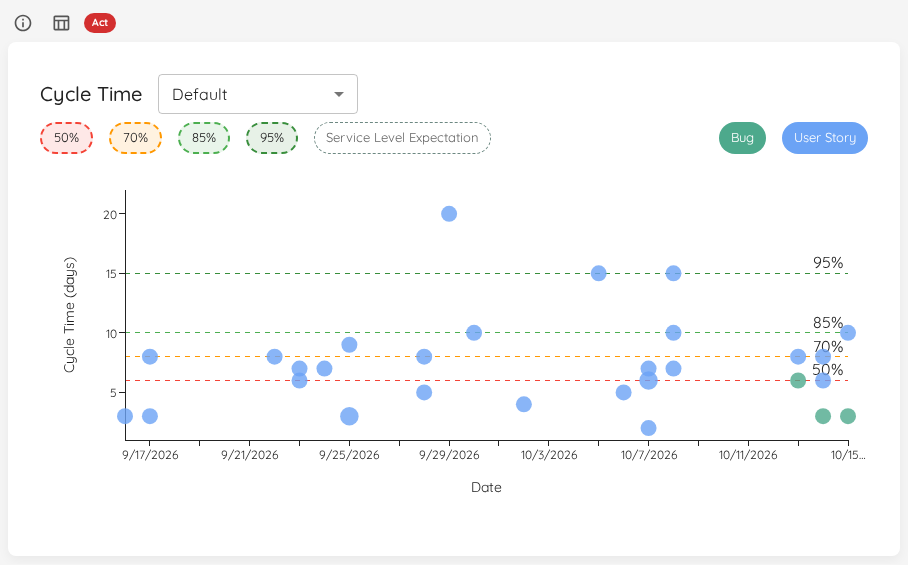
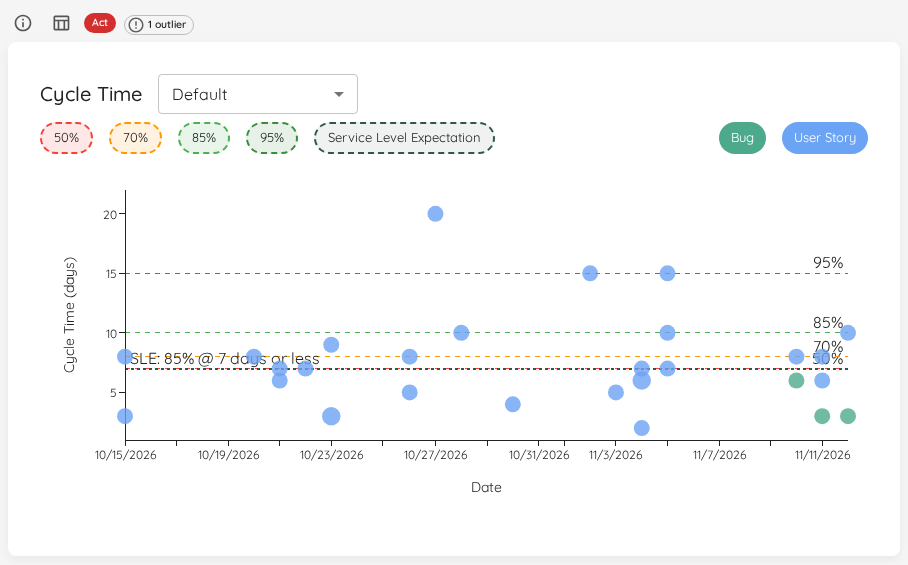
docs(metrics): finalize story-6502-hide-outliers
The Cycle Time docs gain an Outliers section and say the SLE line is now
drawn by default. ADR-282 moves out of the feature workspace as accepted,
the ADR-270 glossary gains the Outlier term, ARCHITECTURE.md and the brief
name the frontend chart rule, and jobs.yaml records the job it serves. The
two scatterplot screenshots are regenerated and now show the outlier chip.
The evolution record holds the finalize checklist.

Claude-Session: https://claude.ai/code/session_01ToezcRny6Bw5snRwWsvYx2

diff --git a/docs/product/architecture/adr-282-outlier-is-a-per-chart-median-multiple.md b/docs/product/architecture/adr-282-outlier-is-a-per-chart-median-multiple.md
@@ -1,12 +1,11 @@
-# ADR-282 (draft): An outlier is a value above a fixed multiple of the median, computed in the frontend, per chart
+# ADR-282: An outlier is a value above a fixed multiple of the median, computed in the frontend, per chart
 
-Draft written in the DESIGN wave of Story 6502, revised after the first review round. It lives in the feature
-folder; moving it to `docs/product/architecture/` and adding the ADR-270 glossary row and the `ARCHITECTURE.md`
-section 4 line is a DELIVER step (the DESIGN run was not allowed to edit shared docs).
+**Feature**: `docs/feature/story-6502-hide-outliers/`
 
 ## Status
+**Date**: 2026-11-14
 
-Proposed (maintainer reviews on return from AFK).
+Accepted (decided and shipped 2026-11-14).
 
 ## Context
 
@@ -31,7 +30,7 @@ in `layerBoundaries.enforcement.test.ts` (`utils` imports no services, hooks or 
    `OUTLIER_MEDIAN_MULTIPLE = 5`, a function that takes a list and a value accessor and returns the median, the cut
    (N x median), the outliers (largest first) and the typical items, and a pure `axisTop` function. It imports only
    the sibling `chartAxisUtils`. A chart passes its own accessor; nothing in the module knows a Work Item.
-2. **"The median" is Lighthouse's own 50th percentile** (AFK-10), computed in the frontend by `fiftiethPercentile`
+2. **"The median" is Lighthouse's own 50th percentile**, computed in the frontend by `fiftiethPercentile`
    with exactly the backend's convention (`PercentileCalculator.cs`: sort ascending, index = `floor(p/100 x N) - 1`,
    clamped). It is therefore always one of the items' values and always the number behind the chart's "50%" line, so
    the popover and the line cannot disagree. This is the one rule for "median" in the product; there is no second
@@ -44,14 +43,14 @@ in `layerBoundaries.enforcement.test.ts` (`utils` imports no services, hooks or 
    axis top is `axisTop`: with outliers, `min(1.1 x max(typical values and the lines at or below the cut), cut)`;
    without outliers, exactly today's axis. So "not drawn" is exactly "above the axis". Stated properties: every
    typical value and every drawn line is at or below the top, every outlier is above it, and the top never exceeds
-   the cut. The x-axis keeps its domain from all items (AFK-13).
+   the cut. The x-axis keeps its domain from all items.
 5. Lines (percentiles, SLE) above the axis are drawn as labelled edge markers in a reserved top margin, by a small
    custom SVG layer built on `useDrawingArea` (already used in this repository at the installed range); they are not
    passed to `ChartsReferenceLine`. The marker group is `aria-hidden`; the popover names the same lines once.
 6. The chip is a separate component (not a mode of `LegendChip`); the list behind it reuses `WorkItemsDialog`.
-   The chip is disabled, and an open popover closes, whenever the widget status leaves "ready" (AFK-11). The page gives
+   The chip is disabled, and an open popover closes, whenever the widget status leaves "ready". The page gives
    the chart a plain boolean, `frameIsReady`, taken from `frameStateOf` for the `cycleScatter` key and passed through
-   the `buildWidgetNodes` context (AFK-16); it is not called `isCurrent`, which names an unrelated local in the same
+   the `buildWidgetNodes` context; it is not called `isCurrent`, which names an unrelated local in the same
    file. The `WidgetStatusReporterContext` channel was considered and rejected: it reports from a chart up to its
    frame, and this need runs from the frame down to the chart.
 7. The statistics, the SLE share, RAG, tiles and View Data are not given the outlier partition. Only the chart's own
@@ -59,7 +58,7 @@ in `layerBoundaries.enforcement.test.ts` (`utils` imports no services, hooks or 
    that runs the same reduction on both sides cannot fail): a mounted chart (MUI mocked) is given the full population
    and must hand the percentile, SLE and View Data inputs on unchanged, and the lines it draws plus the markers it
    shows must equal the lines it received.
-8. **Slices.** The cap at the cut and the edge markers ship in one slice (AFK-6). Shipping the cap without markers
+8. **Slices.** The cap at the cut and the edge markers ship in one slice. Shipping the cap without markers
    hides the 95% and SLE lines silently; shipping markers without the cap leaves "not drawn" outliers in plain
    sight. Neither half is honest alone.
 9. **Named percentiles** are stored with the definition id **and** the fetch callback's identity. A keyed TanStack
@@ -68,10 +67,10 @@ in `layerBoundaries.enforcement.test.ts` (`utils` imports no services, hooks or 
    a deviation from the project's keyed-query norm, accepted because scoped percentiles already live in component
    state elsewhere on the page and moving the fetch is outside this Story.
 
-## Spike and fallback
+## Edge markers: how they were checked, and the fallback
 
-MUI X behaviour for out-of-domain values and for a reserved top margin is unverified (the DESIGN worktree has no
-`node_modules`). DELIVER step 0 is a browser spike with these criteria, at 1280 px and 375 px, light and dark:
+How MUI X treats out-of-domain values and a reserved top margin was not known when this was decided, so the markers were checked
+in a browser, at 1280 px and 375 px, light and dark, against these criteria:
 (1) a marker `<text>` above the drawing area is fully inside the SVG; (2) the plot height does not change with the
 number of marker rows apart from the reserved margin, and no dot or line moves when a percentile chip is ticked; (3)
 no marker box intersects the plot or the legend row; (4) the longest label stays inside the SVG at 375 px or is
@@ -84,7 +83,7 @@ changes; the pure modules, the cap and their tests stay. Keeping the axis open f
 - **Backend flag on the DTO** (an `isOutlier` per item or a cut in the metrics response). Rejected: the maintainer
   wants it per chart on that chart's value; it would change API contracts and force a Lighthouse-Clients bump for a
   render-time concern; the frontend already holds the numbers.
-- **A textbook median in the frontend.** Rejected (AFK-10): two different "medians" on one screen, the chart's "50%"
+- **A textbook median in the frontend.** Rejected: two different "medians" on one screen, the chart's "50%"
   line and the popover's, would confuse every reader and need an explanatory sentence.
 - **Changing the backend percentile convention.** Rejected: it moves every percentile in the product.
 - **A `useOutliers` React hook as the home of the rule.** Rejected: the rule has no state or effect; a hook would
@@ -94,17 +93,17 @@ changes; the pure modules, the cap and their tests stay. Keeping the axis open f
 - **Clip the points instead of filtering them.** Rejected: MUI X scatter markers are not clipped by the axis, and
   each marker is also a focusable button and a tooltip target; an off-screen marker would be reachable by keyboard.
 - **Pass out-of-domain lines to `ChartsReferenceLine`.** Rejected: drawn above the plot, unclipped, over the legend.
-  To be proven in the DELIVER spike.
-- **Keep the axis open for every line** (the DISCUSS slice-01 rule). Rejected as the permanent rule: for a team
+  Checked in the browser before the markers shipped.
+- **Keep the axis open for every line** (the first plan). Rejected as the permanent rule: for a team
   whose 95% line or SLE lies above the cut, keeping the axis open for it undoes the point of the story for exactly
   that team. Such a line is rare on real-looking data (computed on Team Zenith, the 95% line is 15 days against a
   50% line of 6, 2.5 times, well under the cut of 30), so the markers are an honesty guard more than the usual look;
   an illustrative right-skewed lognormal (95% line near 5.2 times the median, not a measurement) is where they would
   show.
-- **`WidgetStatusReporterContext` as the source of the chip's "ready" flag.** Rejected (AFK-16): it carries status
+- **`WidgetStatusReporterContext` as the source of the chip's "ready" flag.** Rejected: it carries status
   from a chart to its frame, the opposite direction; a prop from `frameStateOf` is the smaller seam.
-- **Two slices (cap first, markers later).** Rejected (AFK-6), see decision 8.
-- **2 x P95 (DIVERGE) or Tukey fences.** Superseded by the maintainer's decision.
+- **Two slices (cap first, markers later).** Rejected, see decision 8.
+- **2 x P95 or Tukey fences.** Superseded by the maintainer's decision.
 
 ## Consequences
 
@@ -117,9 +116,9 @@ changes; the pure modules, the cap and their tests stay. Keeping the axis open f
 - Risk, with its probe: the spike above (manual, on a throwaway fixture, because the demo has no line above the cut
   and so shows no marker) and RTL and unit tests of the marker specs on a fixture; no E2E geometry check is kept.
   Demo data carries one outlier on Team Zenith (`TZ-301`, no Parent) so the chip is visible; its accepted effect on Zenith's
-  statistics is listed in the feature delta.
-- Glossary: "Outlier" enters the Flow metrics section of ADR-270 (row text in `feature-delta.md`, DISCUSS context
-  map). "Pace outlier" (Work Item Aging) and a Process Behaviour Chart point beyond its limits remain different
+  statistics is listed in the feature workspace.
+- Glossary: "Outlier" enters the Flow metrics section of ADR-270 in the same feature.
+  "Pace outlier" (Work Item Aging) and a Process Behaviour Chart point beyond its limits remain different
   things; every use is qualified.
 
 ## Enforcement
@@ -127,8 +126,8 @@ changes; the pure modules, the cap and their tests stay. Keeping the axis open f
 `utils/charts/outliers.ts` imports only the pure `chartAxisUtils`, so the existing fallow layer check already keeps
 it free of services, hooks and pages. A unit test asserts that the help sentence and the chip copy contain the value
 of `OUTLIER_MEDIAN_MULTIPLE`, so the constant cannot drift from the words. A table test pins `fiftiethPercentile` to
-the backend convention. Property tests (fast-check, a frontend dev dependency per AFK-7) cover the partition, the
-`axisTop` bounds, and the half-up rounding of the factor from 10 up (AFK-17). The wiring-point test above covers the
+the backend convention. Property tests (fast-check, a frontend dev dependency) cover the partition, the
+`axisTop` bounds, and the half-up rounding of the factor from 10 up. The wiring-point test above covers the
 statistics, and a second chart test pins the chart's 50% line to `fiftiethPercentile` of the same population, for the
 default and for a named Cycle Time, so the popover's median and the line cannot drift apart. Mutation testing (Stryker, 80%) covers the boundary (`>` against
 `>=` at the cut) through a test at exactly N x median.

diff --git a/ARCHITECTURE.md b/ARCHITECTURE.md
@@ -344,6 +344,7 @@ Hop 1 is the whole point: it happens at top level, against **whatever provider t
 - **The frontend layers import in one direction only, and a frozen list keeps today's exceptions from growing.** Five rules hold: components never import pages; hooks never import pages or components; services never import hooks; models never import pages; utils never import services. Each rule exists because a lower layer that reaches back up makes the two depend on each other and turns shared code into something only one screen can safely change. Pages and context are unconstrained, and so is the composition root (`App.tsx` and `main.tsx`), which sits outside every layer. Fallow, a dependency-graph checker pinned as a dev dependency, checks the rules from `Lighthouse.Frontend/.fallowrc.json`, which names the source folders as layers and says which layers each constrained layer may import. The 21 places where a layer already reaches across a rule are written down as named pairs of files, importing file then imported file, in the enforcement test `Lighthouse.Frontend/src/layerBoundaries.enforcement.test.ts`. The check also catches a lazy (dynamic) import and a component that nothing imports yet. A new reach fails the test naming both files, and the fix, for any of the five rules, is to move the shared piece into a layer both files may import, or to invert the dependency, never to add the pair to the list. A reach that has been fixed fails the test too until its pair is deleted, so the list only ever shrinks. Test files are not checked, and a check that cannot run (a missing config, say) fails the test with what Fallow printed rather than passing with no leaks.
 - **No production frontend file grows past 1000 lines, and a list that only shrinks names any that do.** A file that wide mixes responsibilities, and each later change to one of them risks the others. `Lighthouse.Frontend/src/fileSize.enforcement.test.ts` counts the lines of every production file and fails naming any over the limit that is not listed in `src/fileSize.offenders.ts`; a listed file that has come under the limit fails it too until its entry is deleted. The list is empty today. A wide file is split by responsibility next to where it lives, with no barrel: pure rules into a function module tested without a render, effectful parts into hooks, presentational pieces into components of their own. Checks that read a file by its path move with the code they cover.
 - **Team and Portfolio access goes through one hook.** `useScopedAccess` owns members and group mappings for a Team or a Portfolio scope, including the failure messages, which use the configured Team and Portfolio terms. `Lighthouse.Frontend/src/rbacAccess.enforcement.test.ts` fails naming any other file that calls those access methods directly (the system-wide RBAC settings page may still create and remove group mappings, for rules that hold for all Teams and Portfolios), and any file other than the RBAC service that fetches the authorization summary endpoint.
+- **Charts may hide outliers by one shared rule; the statistics never do.** `utils/charts/outliers.ts` is a pure function: a value is an outlier when it is more than 5 times the median of that chart's own items. The Cycle Time scatterplot does not draw outliers and names them in a header chip, while percentiles, the SLE share and View Data still count every item (ADR-282).
 
 ---
 
@@ -449,6 +450,7 @@ Rejected regardless of scale: microservices, full CQRS / a separate read store, 
 | 265 – 267 | Reports across owners: one owner-less endpoint lists every readable report, filtered on the server, each row naming its owner; a bulk create or removal is one request of at most 50, answered owner by owner through the single-report path; several reports print as one document from the same hidden frame, ready only when every report is (§3, §12). *Accepted*; built with Epic #6350, released in v26.11.1.2 |
 | 268 – 269 | A ratchet guard lists its offenders by name in both directions and only ever shrinks; the five frontend layer rules are checked by Fallow and ratcheted in an enforcement test (§12). *Accepted*; released in v26.11.1.2 |
 | 281 | The everyone signed in switch is its own one-row record with a concurrency token, and it can only say "view". *Accepted*; built with Epic 6577 |
+| 282 | An outlier is a value above 5 times the median of that chart's own items, computed in the frontend by one pure function; the chart leaves outliers out and names them, and no statistic ever does. *Accepted*; built with Story 6502 |
 | 280 | A system-wide rule is a group mapping on the AllUnits scope, Admin on all is one generic UnitAdmin role, and permissions are resolved by reach in one pure value. *Accepted*; built with Epic 6577 |
 | **279** | **A Team or Portfolio reads its parent from an ordered list of one to five typed sources, stored as one JSON text value and ordered by the one `ParentSourceSelector`. The first that yields a parent wins, and the tracker's own parent is an entry rather than a fallback. The old single-field columns and members stay for one release, written through as a projection. Extends 193 and 241** |
 | 278 | An Azure DevOps board list fails whole: a project that cannot be read fails the list, naming the project, and never reads as a project with no boards. *Accepted*; built with Bug #6499 |

diff --git a/docs/evolution/story-6502-hide-outliers/evolution.md b/docs/evolution/story-6502-hide-outliers/evolution.md
@@ -1,0 +1,40 @@
+# Story 6502: Hide Outliers on the Cycle Time scatterplot
+
+**Finished:** 2026-11-14 · ADO User Story #6502
+
+## The problem
+
+One very long closed Work Item stretched the y-axis of the Cycle Time scatterplot and squeezed every other dot into the bottom of the chart. A reader could not see where typical work lands, and could not tell what a stretched axis was hiding.
+
+## Delivered
+
+- **S1, with S2 folded into it** (`9c8eccf2c`): the chart does not draw outliers, a Work Item more than 5 times the chart's own median Cycle Time. The y-axis fits the rest. A `(!) N outliers` chip in the widget header (`(!) N` on a phone) opens a popover with the cut, the median, what is still counted, the lines above the axis and up to 10 rows, longest first. Percentile and SLE lines above the axis appear as labelled markers at the top edge. The chart draws its SLE line by default. Empty plots say "All visible Work Items are outliers." or "All types are hidden." S2 (the markers) shipped together with the cap because neither half is honest alone.
+- **S3** (`c70d368f3`): "Open in a list" opens all outliers in the Work Items dialog, and the widget's help names the rule.
+- **Refactors:** `53b37d34c` (the Cycle Time term is required wherever widget help is worded) and `c4acda4ca` (ask only for the lines above the axis).
+- **Follow-ups after the mutation run:** `1577e2f3e` (the chip closes its popover during render instead of in an effect; a test kills the surviving "lines above the axis" mutant) and `88a3c8bfb` (the help states the rule in the seeded terms when no Team or Portfolio is known).
+- Percentiles, the SLE share, RAG, tiles, forecasts and View Data still include every item. No API, DTO or backend behaviour changed.
+
+## Key decisions
+
+- The rule is a pure function in `utils/charts/outliers.ts`, with one constant for the multiple, in the frontend and per chart (ADR-282).
+- "Median" is Lighthouse's own 50th percentile, so the popover's median always equals the chart's "50%" line.
+- Maintainer, 2026-11-14: the chip lives in the widget header; shorter popover and empty-plot copy; markers in the top margin; the scatterplot draws the SLE line by default.
+
+## Finalize checklist
+
+| Item | Answer |
+|---|---|
+| Docs prose | Done. `docs/metrics/flow-metrics.md` gained an "Outliers" section under Cycle Time Scatterplot and the SLE sentence now says the line is drawn by default. `docs/metrics/widgets.md` and `docs/metrics/portfolio-features.md` carry no outlier or SLE-default wording that became wrong, so they are unchanged. Terms are the seeded defaults. |
+| Screenshots | Done, regenerated in the finalize commit: `docs/assets/features/metrics/cycleScatter.png` and `cycleScatterNamedCycleTime.png`, overwritten in place by `Screenshots.spec.ts`, never renamed. |
+| Demo data | Done. Team Zenith carries one outlier, `TZ-301`, guarded by `DemoDataFactoryTest`. |
+| Website assets | N/A, because the same two PNGs are overwritten in place and keep their names. A grep of `/storage/repos/website/src` for `cycleScatter` finds nothing, so no page names them. |
+| Clients (CLI, MCP) | N/A, because no API or DTO changed. |
+| Context map, `ARCHITECTURE.md` | Done. ADR-282 moved to `docs/product/architecture/` (Accepted); ADR-270 glossary has the Outlier row under Flow metrics; `ARCHITECTURE.md` §12 has one line and the ADR index has the row; `brief.md` has a paragraph; `docs/product/jobs.yaml` has the new job. No context, edge or domain event is added. |
+| Usage-data event | Done. `OutlierPopoverOpened = 27`, listed in `docs/settings/usagedata.md`. |
+| Mutation | Done. Frontend 88.47 % (gate 80 %), backend N/A because nothing there is mutable; see `docs/feature/story-6502-hide-outliers/mutation/README.md`. |
+| Release notes | N/A; written at /release. |
+
+## Known open
+
+- EXAMINE rejected the feature on observation gaps only, not on a defect in behaviour.
+- Three files stay under 80 % mutation: `outlierWording.ts` (76.74 %), `OutlierChip.tsx` (77.78 %) and `OutlierPopoverContent.tsx` (52.63 %). The overall score meets the gate. These scores are from before the follow-ups, which added tests and were not re-measured.

diff --git a/docs/metrics/flow-metrics.md b/docs/metrics/flow-metrics.md
@@ -27,9 +27,22 @@ If there are items that were closed on the same day with the same cycle time, th
 
 This visual allows you to see patterns or outliers. Hovering over a dot will give you additional information, and with a click you'll get a more detailed view about the item(s) represented by the specific dot.
 
-You can click on the percentiles on top in the legend to show/hide them. Additionally, if you have defined an SLE, you can show the line on your scatterplot as well.
+You can click on the percentiles on top in the legend to show/hide them. If you have defined an SLE, its line is drawn by default, and you can switch it off in the legend.
 
 The chart also distinguishes items by type, using different colors for each item type. The legend allows you to show or hide specific item types.
+
+## Outliers
+
+One very long Work Item would stretch the y-axis and squeeze every other dot into the bottom of the chart. So the chart does not draw outliers. An outlier is a closed Work Item whose Cycle Time is more than 5 times the median Cycle Time of the closed Work Items in the chart. The median is the same value as the 50% line. The rule is applied to the value the chart plots, so with a named Cycle Time selected it uses that Cycle Time.
+
+The y-axis then fits the rest of the Work Items. When there are outliers, a chip such as **(!) 2 outliers** appears in the widget header (on a phone it reads **(!) 2**). Select it to open a popover that tells you:
+
+- **Not drawn:** the Cycle Time above which a Work Item is left out, and how it follows from the median, for example "longer than 30 days (5 times the median, 6 days)".
+- **Still counted:** outliers stay in the percentiles, the SLE and **View Data**. Hiding them changes the picture only, never a number.
+- **Above the axis:** if a percentile or SLE line lies above the top of the axis, it is shown as a labelled marker at the top edge of the plot, for example "▲ 95%: 34 days", and the popover names it too.
+- **The outliers themselves:** up to 10 rows, longest first, followed by "and k more" when there are more. **Open in a list** opens all of them in the Work Items dialog.
+
+When every visible Work Item is an outlier, the plot says "All visible Work Items are outliers." When you have hidden all Work Item types in the legend, it says "All types are hidden." If there are no outliers, there is no chip and the chart looks as before.
 
 {: .note}
 If [Blackout Periods](../settings/configuration.html#blackout-periods) are configured, the corresponding date ranges are highlighted with a hatched overlay on this chart, helping you distinguish expected gaps from anomalies.

diff --git a/docs/product/architecture/adr-270-bounded-contexts-context-map-and-module-layout.md b/docs/product/architecture/adr-270-bounded-contexts-context-map-and-module-layout.md
@@ -404,6 +404,7 @@ the maintainer). The refresh process itself is still called sync.
 |---|---|---|---|
 | Flow metric | Throughput, Cycle Time, Work Item Age, WIP and their percentiles, the same calculation at every level | `Modules/FlowMetrics` (namespace `Lighthouse.Backend.Modules.FlowMetrics.*`); the services are still named `*MetricsService` | No folder drift since Story 6358 (2026-11-09). The `*Service` role names are a later edit (see "Role names") |
 | Snapshot day | The day a history row is recorded for | `RecordedAt` in three tables, another name in the Delivery snapshot | **Drift**: three names for one key |
+| Outlier | A closed Work Item whose value on a chart is more than 5 times the median (the 50th percentile, with Lighthouse's own convention) of that chart's items; computed per chart on that chart's own value; not drawn on that chart, still counted in every number and listed in View Data. A frontend chart rule ([ADR-282](adr-282-outlier-is-a-per-chart-median-multiple.md)) | `findOutliers`, `OUTLIER_MEDIAN_MULTIPLE`, `fiftiethPercentile` (`utils/charts/outliers.ts`) | **Overloaded in prose**: "pace outlier" (Work Item Aging bands), a point beyond the limits of a Process Behaviour Chart, and this one are three different things. Qualify every use |
 
 ### Forecasting
 

diff --git a/docs/product/architecture/brief.md b/docs/product/architecture/brief.md
@@ -183,6 +183,10 @@ The test environment requires 4 dedicated Keycloak users with configurable group
 
 ---
 
+### Frontend chart rule: outliers (Story 6502)
+
+A chart may leave out outliers: Work Items whose value on that chart is more than 5 times the median of the chart's own items, where "median" is Lighthouse's own 50th percentile, computed in the frontend with the backend's convention. The rule is one pure function in `src/utils/charts/outliers.ts` that takes a list and a value accessor, so a second chart adopts it without touching the first. The Cycle Time scatterplot filters outliers out of its series, fits its axis to the rest, shows percentile and SLE lines above the axis as edge markers, and names the outliers in a header chip and popover. Percentiles, the SLE share, RAG, tiles, forecasts and View Data never receive the partition and still count every item. No API, DTO, RBAC or client change. See [ADR-282](./adr-282-outlier-is-a-per-chart-median-multiple.md).
+
 ### ADR References
 
 - [ADR-001](./adr-001-rbac-ui-gating-strategy.md): UI Gating Strategy — Hidden vs Disabled Controls for Viewers
